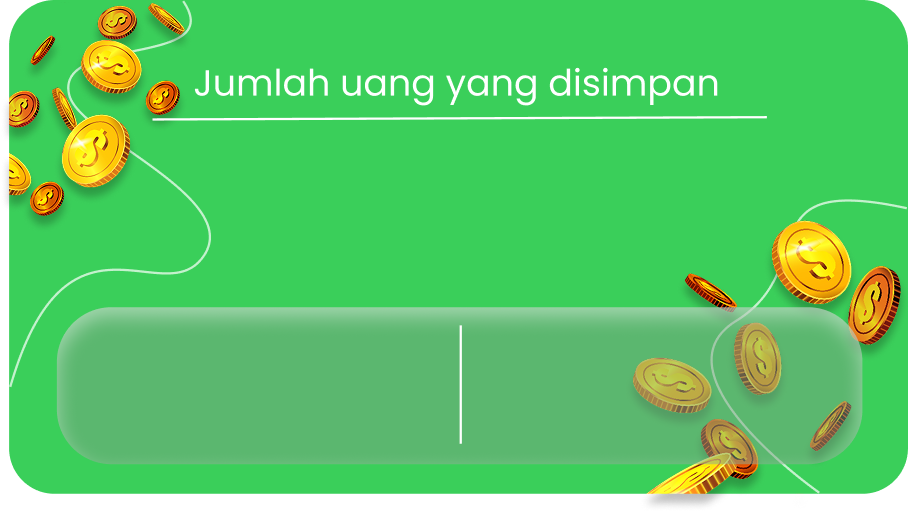
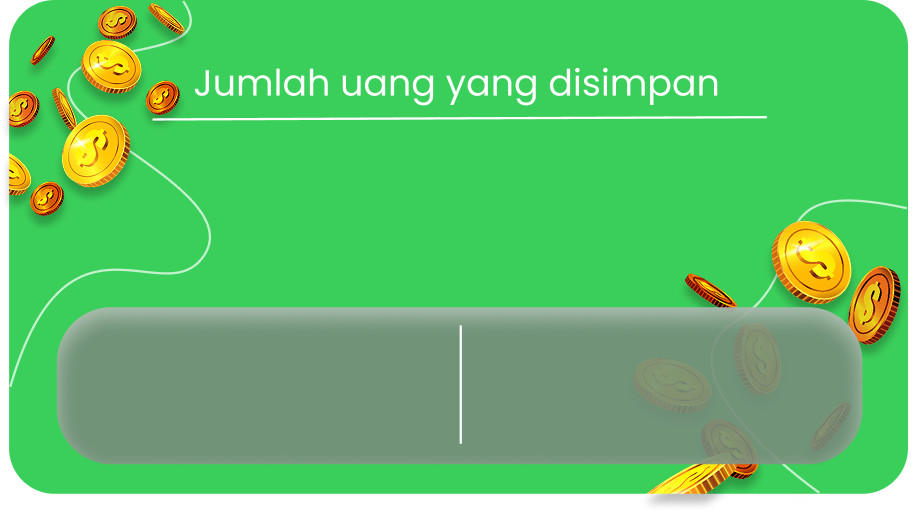
update home, tombol back dan prosess page tambah pemasukan

Changed region(s): [[0.061, 0.5938, 0.9455, 0.9062]]

diff --git a/app/(tabs)/home.tsx b/app/(tabs)/home.tsx
@@ -68,6 +68,10 @@ export default function Home() {
     }
   };
 
+  const handleincome = () => {
+    router.push("/(tabs)/income");
+  };
+
   return (
     <View style={styles.container}>
       {/* ===== HEADER BAR ===== */}
@@ -103,7 +107,23 @@ export default function Home() {
   <Image
     source={require("../../assets/images/GreenBackground.png")}
     style={styles.backgroundImage}
-  />
+  />  
+
+<TouchableOpacity style={styles.buttontambah} onPress={handleincome}>
+    <Image source={require("../../assets/images/arrowdown.png")}
+    style={styles.arrowDown}
+    >
+    </Image>
+    <Text style={styles.texttambah}>Tambah Pemasukan</Text>
+  </TouchableOpacity>
+
+  <TouchableOpacity style={styles.buttonkurang}>
+    <Image source={require("../../assets/images/arrowup.png")}
+    style={styles.arrowup}
+    >
+    </Image>
+    <Text style={styles.texttambah}>Tambah Pengeluaran</Text>
+  </TouchableOpacity>
 
   {/* Analisis + Tombol di kiri-kanan */}
   <View style={styles.analisisContainer}>
@@ -210,8 +230,54 @@ const styles = StyleSheet.create({
      width: "90%",                     // persegi panjang di tengah
      height: 210,
     justifyContent: "center",
-
+    zIndex: 0,
   },
+  buttontambah: {
+    width: 45,
+    height: 45,
+    top: -72,
+    left: -130,
+    zIndex: 100,
+    backgroundColor: "rgba(255, 255, 255, 0.3)",
+    borderRadius: 10,
+    alignItems: "center",
+    justifyContent: "center",
+    flexDirection: "row",
+    gap: 10,
+  },
+  arrowDown: {
+    width: 25,
+    height: 25,
+    marginLeft: 110,
+  },
+  texttambah: {
+    color: "white",
+    fontSize: 14,
+    width: 100,
+    textAlign: "center",
+    top: -2,
+  },
+  buttonkurang: {
+    width: 45,
+    height: 45,
+    marginTop: -117,
+    left: 42,
+    zIndex: 100,
+    backgroundColor: "rgba(255, 255, 255, 0.3)",
+    borderRadius: 10,
+    alignItems: "center",
+    justifyContent: "center",
+    flexDirection: "row",
+    gap: 10,
+    marginBottom: 30,
+  },
+  arrowup: {
+    width: 25,
+    height: 25,
+    marginLeft: 110,
+  },
+
+
  analisisContainer: {
   width: "90%",                  // sejajar dengan lebar card
   flexDirection: "row",

diff --git a/app/(auth)/forgot.tsx b/app/(auth)/forgot.tsx
@@ -8,7 +8,7 @@ import {
   StyleSheet,
   Modal,
 } from "react-native";
-import { ArrowLeft, CheckCircle, XCircle, Info } from "lucide-react-native";
+import { ArrowLeft, CheckCircle, XCircle, Info, ChevronLeft } from "lucide-react-native";
 import { supabase } from "../../lib/supabase";
 import { router } from "expo-router";
 
@@ -49,7 +49,7 @@ const forgot = () => {
   return (
     <View style={styles.container}>
       <TouchableOpacity onPress={() => router.replace("/auth")} style={styles.back}>
-        <ArrowLeft color="white" size={35} style={{ marginTop: 20 }} />
+        <ChevronLeft color="#44DA76" size={35} style={{ marginTop: 20 }} />
       </TouchableOpacity>
 
       <Text style={styles.title}>Lupa Kata Sandi</Text>

diff --git a/app/(auth)/forgotpassword.tsx b/app/(auth)/forgotpassword.tsx
@@ -7,7 +7,7 @@ import {
   ActivityIndicator,
   StyleSheet,
 } from "react-native";
-import { ArrowLeft, Eye, EyeOff } from "lucide-react-native";
+import { ArrowLeft, ChevronLeft, Eye, EyeOff } from "lucide-react-native";
 import { supabase } from "../../lib/supabase";
 import { router } from "expo-router";
 
@@ -39,7 +39,7 @@ const ForgotPassword = () => {
     <View style={styles.container}>
       {/* Tombol Kembali */}
       <TouchableOpacity onPress={() => router.back()} style={styles.back}>
-        <ArrowLeft color="white" size={35} style={{ marginTop: 20 }} />
+        <ChevronLeft color="white" size={35} style={{ marginTop: 20 }} />
       </TouchableOpacity>
 
       <Text style={styles.title}>Buat Password Baru</Text>

diff --git a/app/(auth)/forgototp.tsx b/app/(auth)/forgototp.tsx
@@ -11,7 +11,7 @@ import {
   TextInputKeyPressEventData,
   Platform,
 } from "react-native";
-import { ArrowLeft } from "lucide-react-native";
+import { ArrowLeft, ChevronLeft } from "lucide-react-native";
 import { supabase } from "../../lib/supabase";
 import { useLocalSearchParams, router } from "expo-router";
 
@@ -108,7 +108,7 @@ const ForgotOtp: React.FC = () => {
   return (
     <View style={styles.container}>
       <TouchableOpacity onPress={() => router.back()} style={styles.back}>
-        <ArrowLeft color="white" size={35} style={{ marginTop: 20 }} />
+        <ChevronLeft color="#44DA76" size={35} style={{ marginTop: 20 }} />
       </TouchableOpacity>
 
       <Text style={styles.title}>Masukkan OTP</Text>

diff --git a/app/(tabs)/income.tsx b/app/(tabs)/income.tsx
@@ -1,0 +1,28 @@
+import { View, Text, StyleSheet, TouchableOpacity } from 'react-native'
+import React from 'react'
+import { ArrowLeft } from 'lucide-react-native'
+
+const income = () => {
+  return (
+    <View style={styles.container}>
+        {/* tombol back */}
+        <TouchableOpacity  style={styles.back}>
+            <ArrowLeft color="green" size={35} style={{ marginTop: 20 }} />
+        </TouchableOpacity>
+    </View>
+  )
+}
+
+export default income
+
+const styles = StyleSheet.create({
+    container: {
+        flex: 1,
+        backgroundColor: '#151716',
+    },
+    back: {
+        position: 'absolute',
+        top: 50,
+        left: 25,
+    },
+})

diff --git a/app/(auth)/auth.tsx b/app/(auth)/auth.tsx
@@ -18,6 +18,7 @@ import {
   XCircle,
   CheckCircle,
   Info,
+  ChevronLeft,
 } from "lucide-react-native";
 import { supabase } from "../../lib/supabase";
 
@@ -149,7 +150,7 @@ const AuthPage = () => {
   return (
     <View style={styles.container}>
       <TouchableOpacity onPress={handleBack} style={styles.back}>
-        <ArrowLeft color="white" size={35} style={{ marginTop: 20 }} />
+        <ChevronLeft color="#44DA76" size={35} style={{ marginTop: 20 }} />
       </TouchableOpacity>
 
       <Text style={styles.title}>
